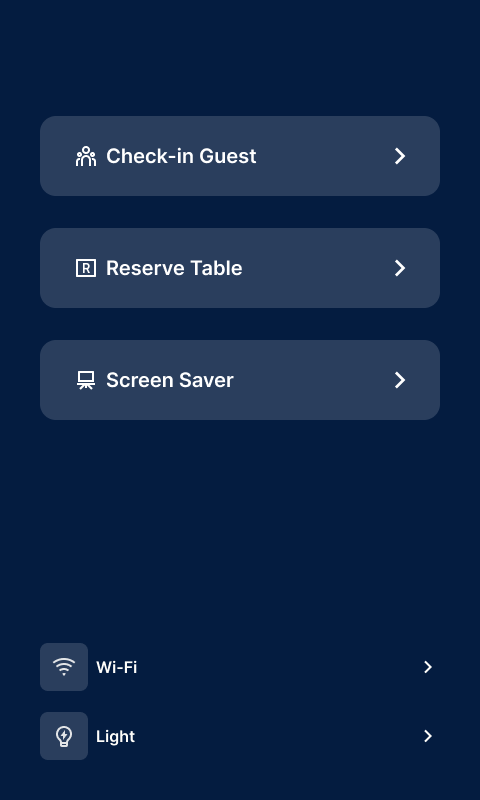
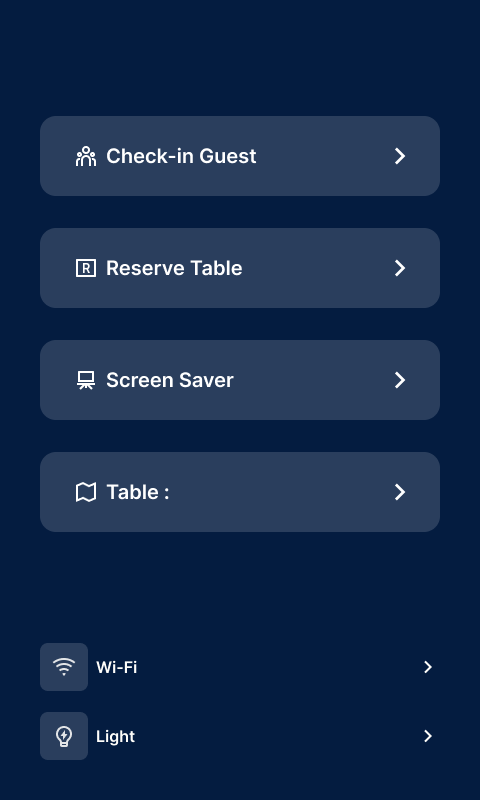
ADD: table selection screen

Changed region(s): [[0.0625, 0.5625, 0.9375, 0.6875]]

diff --git a/qt-app/main.py b/qt-app/main.py
@@ -3,12 +3,13 @@ import sys
 from PyQt5.uic import loadUi
 from PyQt5 import QtWidgets, QtCore
 from PyQt5.QtGui import QPixmap, QImage, QColor
-from PyQt5.QtWidgets import QApplication, QDialog, QSlider
+from PyQt5.QtWidgets import QApplication, QDialog, QSlider, QListWidget, QListWidgetItem
+from PyQt5.QtCore import QSize
 import os 
 import signal
 import urllib.request
 import requests
-from api import startHangout,callWaiter, waiterArrived, serviceDelayed, notifyExperience, addMultipleRatings, fetchTableId, getConfig
+from api import startHangout,callWaiter, waiterArrived, serviceDelayed, notifyExperience, addMultipleRatings, fetchTableId, getConfig, getAllTables
 import threading
 from subprocess import Popen
 import json
@@ -68,10 +69,10 @@ def getTableId ():
     print(storage)
     if "tableId" in storage and storage["tableId"] != None:
         tableId = storage["tableId"]
-    # else:
+    else:
+        tableId = ""
         # loadConfig()
         # tableId = storage["tableId"]
-    table = tableId
     return tableId
 
 def saveStorage():
@@ -324,7 +325,11 @@ class AboutScreen(QDialog):
             self.restaurantLabel.setText(storage["restauranName"])
         else:
             self.restaurantLabel.setText("Assign restaurant and table")
-        self.tableLabel.setText(table)
+        if "restauranName" in storage:
+            self.tableLabel.setText(storage["tableId"])
+        else:
+            self.tableLabel.setText("Table Not assigned or no internet")
+        
         self.serialLabel.setText(serialNumber)
         if "podBrightness" in storage:
             self.brightnessLabel.setText(str(storage["podBrightness"]))
@@ -355,6 +360,9 @@ class WaiterMenuScreen(QDialog):
         self.reserveButton.clicked.connect(self.navigateToReserveScreen)
         self.screenSaverButton.clicked.connect(self.navigateToIdleLockScreen)
         self.clearTableButton.clicked.connect(self.navigateToAboutScreen)
+        tableId = getTableId()
+        self.tableNumber.setText(tableId)
+        self.tableSelectionButton.clicked.connect(self.navigateToTableSelectionScreen)
         runInNewThread(self, yellowLight)
     
     def navigateToChooseNumberOfGuests(self):
@@ -365,6 +373,42 @@ class WaiterMenuScreen(QDialog):
     
     def navigateToAboutScreen(self):
         navigateToScreen(AboutScreen)
+    
+    def navigateToTableSelectionScreen(self):
+        navigateToScreen(TableSelectionScreen)
+    
+    def navigateToIdleLockScreen(self):
+        navigateToRestart()
+
+class TableSelectionScreen(QDialog):
+    def __init__(self):
+        super(TableSelectionScreen, self).__init__()
+        loadUi("ui/25TableSelectionScreen.ui", self)
+        # self.goToNextButton.clicked.connect(self.navigateToWaiterMenuScreen)
+        self.listWidget.itemClicked.connect(self.tableSelected)
+        runInNewThread(self, self.loadTables)
+    
+    def loadTables(self):
+        try:
+            tables = getAllTables("TBCCH")
+            for t in tables:
+                print(t)
+                item = QListWidgetItem(t.get("referenceId"))
+                item.setSizeHint(QSize(400, 60))
+                self.listWidget.addItem(item)
+        except:
+            print("Failed to load tables")
+
+    def tableSelected(self,item):
+        storage["tableId"] = item.text()
+        #  TODO: ADD send table number to server
+        print(storage)
+        saveStorage()
+        self.navigateToWaiterMenuScreen()
+        
+
+    def navigateToWaiterMenuScreen(self):
+        navigateToScreen(WaiterMenuScreen)
     
     def navigateToIdleLockScreen(self):
         navigateToRestart()
@@ -779,8 +823,10 @@ print(storage)
 app=QApplication(sys.argv)
 app.setStyleSheet(MainStyle)
 mainStackedWidget=QtWidgets.QStackedWidget()
-# mainwindow=WelcomeScreen()
-mainwindow=IdleLockScreen()
+if ENV == "dev":
+    mainwindow=IdleLockScreen()
+else:
+    mainwindow=IdleLockScreen()
 mainStackedWidget.addWidget(mainwindow)
 mainStackedWidget.setFixedWidth(480)
 mainStackedWidget.setFixedHeight(800)

diff --git a/qt-app/api.py b/qt-app/api.py
@@ -89,3 +89,8 @@ def fetchTableId():
     tableId = response.json().get("referenceId")
     print("TableId in fetchTableId", response.json())
     return tableId
+
+def getAllTables(restaurantId):
+    response = requests.get(BASE_URL + "/restaurants/"+restaurantId+"/tables", timeout = TIMEOUT)
+    tables = response.json()
+    return tables.get("data").get("tables")
